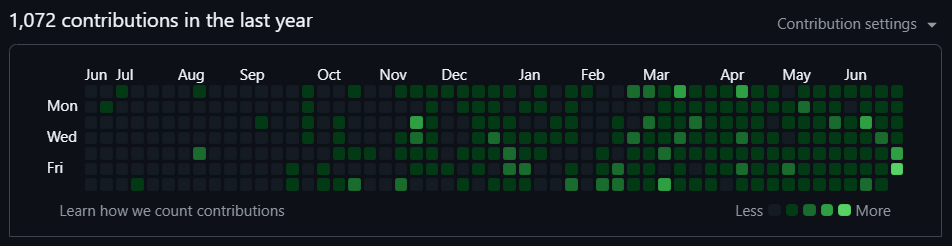
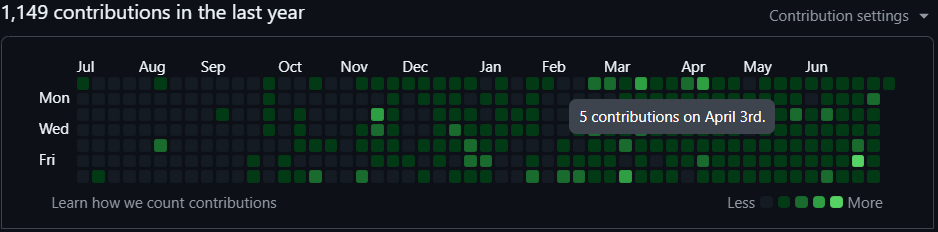
Update commit count in README.md to reflect current contributions and replace contribution image

diff --git a/README.md b/README.md
@@ -13,7 +13,7 @@ Name - Om Goyal
 
 Hobbies - Just code and code (Yes I am serious)
 
-I have a total of above **1100 commits**. *(Including my Public and Private repositories)*
+I have a total of above **1150 commits**. *(Including my Public and Private repositories)*
 
 ![image](images/contributions.png)
 
